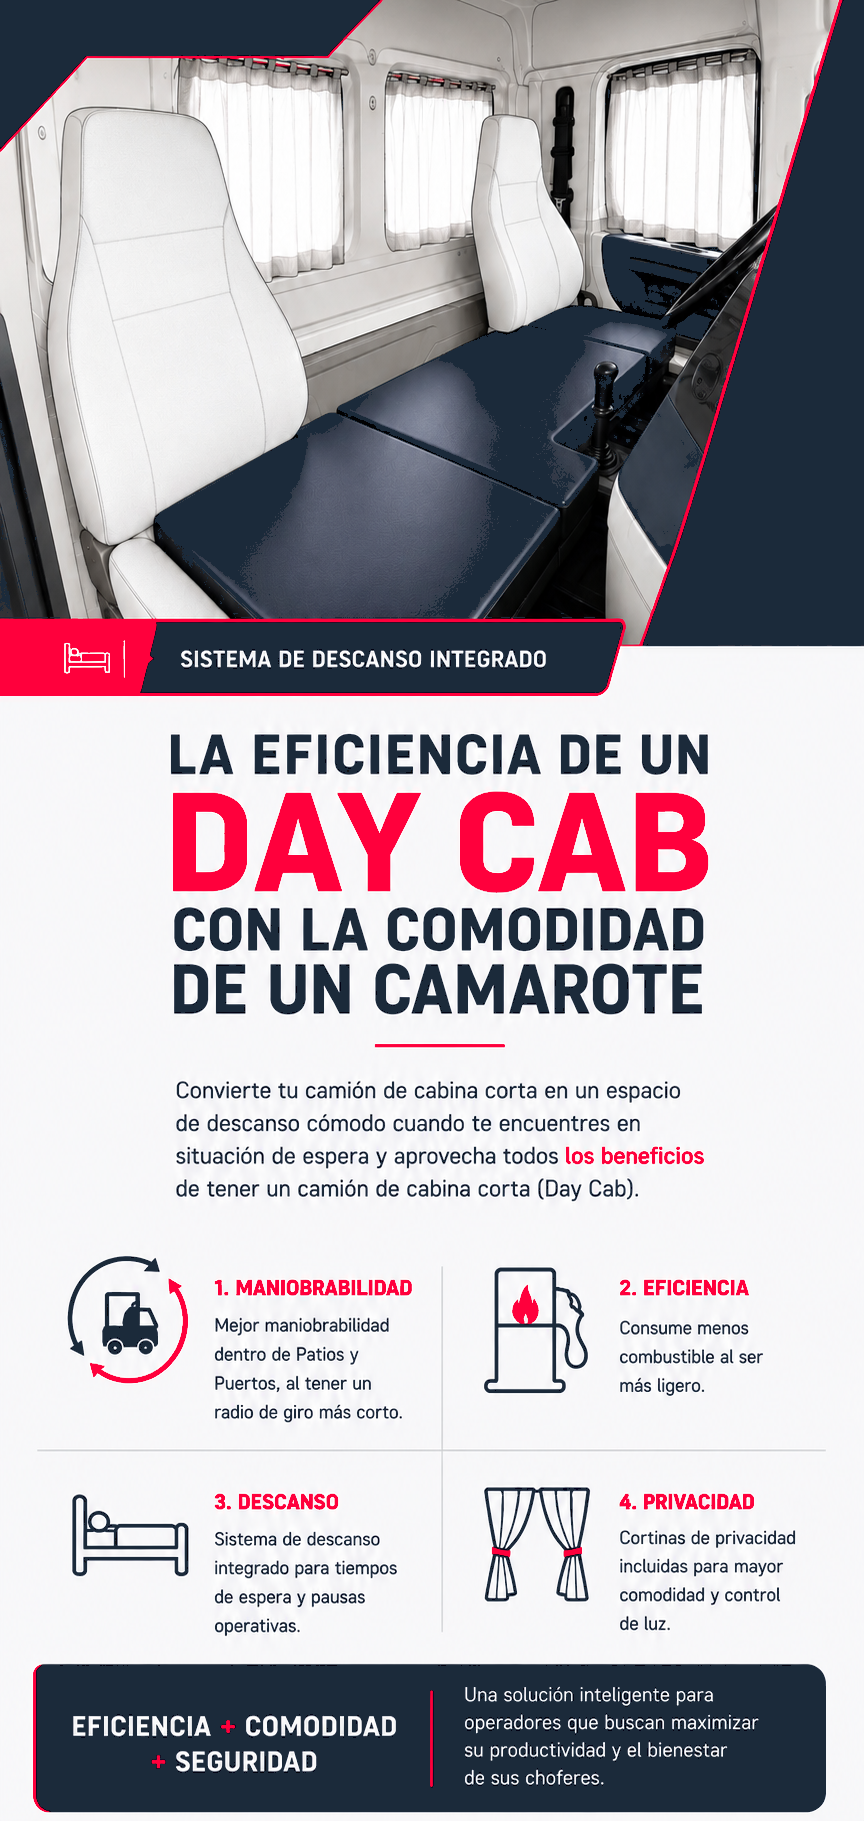
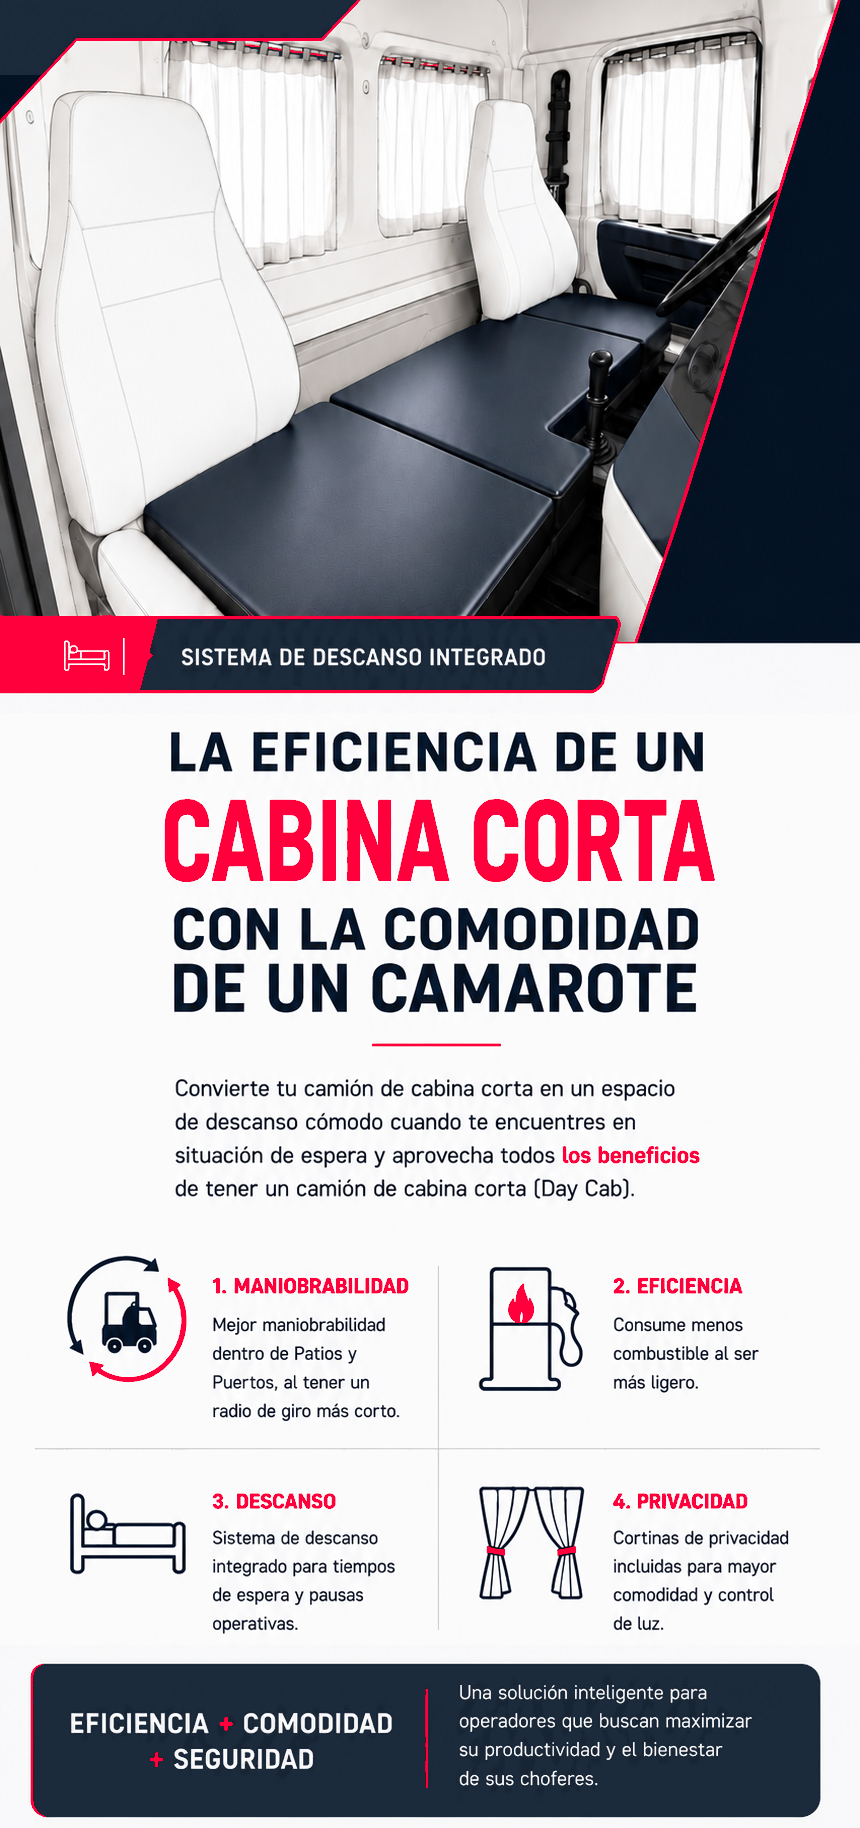
Add files via upload

diff --git a/styles.css b/styles.css
@@ -3313,3 +3313,230 @@ label.has-error .country-trigger {
 .premium-request-form.has-request-path .request-step-label {
   display: none;
 }
+
+/* Cleaner country-code selector: selected state shows flag + area code only */
+.phone-input-group {
+  align-items: start;
+}
+
+.country-combobox {
+  z-index: 30;
+}
+
+.country-combobox:has(.country-menu:not([hidden])) {
+  z-index: 9990;
+}
+
+.country-trigger {
+  grid-template-columns: auto 1fr auto;
+  min-width: 0;
+  padding: 0 12px;
+}
+
+.country-trigger .phone-flag {
+  width: 24px;
+  text-align: center;
+}
+
+.country-code-label {
+  min-width: 0;
+  color: var(--ink);
+  font-size: 0.94rem;
+  font-weight: 950;
+  text-overflow: clip;
+}
+
+.country-menu {
+  z-index: 9999;
+  width: min(100%, 300px);
+  min-width: min(300px, calc(100vw - 48px));
+  max-width: calc(100vw - 48px);
+  background: #fff;
+  box-shadow: 0 22px 54px rgba(14,23,34,0.22);
+  pointer-events: auto;
+}
+
+.country-search {
+  margin-top: 0 !important;
+}
+
+.country-options {
+  max-height: 190px;
+  background: #fff;
+}
+
+.country-option {
+  position: relative;
+  z-index: 1;
+  min-height: 42px;
+  background: #fff;
+}
+
+.country-option strong {
+  color: var(--ink);
+}
+
+.country-option em {
+  color: var(--muted);
+  font-size: 0.82rem;
+}
+
+.country-option:hover strong,
+.country-option:focus-visible strong,
+.country-option:hover em,
+.country-option:focus-visible em {
+  color: var(--red);
+}
+
+@media (max-width: 720px) {
+  .country-menu {
+    width: 100%;
+    min-width: 100%;
+    max-width: 100%;
+  }
+}
+
+/* Keep country dropdown inside form flow so it never covers fields below */
+.phone-field {
+  position: relative;
+}
+
+.phone-field .phone-input-group {
+  align-items: start;
+}
+
+.country-combobox:has(.country-menu:not([hidden])) {
+  grid-column: 1 / -1;
+}
+
+.country-combobox:has(.country-menu:not([hidden])) .country-trigger {
+  max-width: min(280px, 100%);
+}
+
+.country-combobox .country-menu {
+  position: static;
+  width: 100%;
+  min-width: 0;
+  max-width: 100%;
+  margin-top: 10px;
+}
+
+.phone-input-group:has(.country-menu:not([hidden])) {
+  grid-template-columns: minmax(0, 1fr);
+}
+
+
+/* Refined country dropdown panel below the full phone row */
+.phone-input-group:has(.country-menu:not([hidden])) {
+  display: grid;
+  grid-template-columns: minmax(220px, 0.9fr) minmax(0, 1.1fr);
+  gap: 12px 14px;
+}
+
+.phone-input-group:has(.country-menu:not([hidden])) .country-combobox {
+  display: contents;
+}
+
+.phone-input-group:has(.country-menu:not([hidden])) .country-trigger {
+  grid-column: 1;
+  max-width: none;
+}
+
+.phone-input-group:has(.country-menu:not([hidden])) > input[type="tel"] {
+  grid-column: 2;
+  grid-row: 1;
+  margin-top: 0;
+}
+
+.phone-input-group:has(.country-menu:not([hidden])) .country-menu {
+  grid-column: 1 / -1;
+  grid-row: 2;
+  margin-top: 0;
+  padding: 12px;
+  border: 1px solid rgba(23,35,50,0.12);
+  border-radius: 18px;
+  background: #fff;
+  box-shadow: 0 20px 50px rgba(14,23,34,0.14);
+}
+
+.phone-input-group:has(.country-menu:not([hidden])) .country-options {
+  max-height: 220px;
+}
+
+@media (max-width: 720px) {
+  .phone-input-group:has(.country-menu:not([hidden])) {
+    grid-template-columns: 1fr;
+  }
+
+  .phone-input-group:has(.country-menu:not([hidden])) .country-trigger,
+  .phone-input-group:has(.country-menu:not([hidden])) > input[type="tel"],
+  .phone-input-group:has(.country-menu:not([hidden])) .country-menu {
+    grid-column: 1;
+    grid-row: auto;
+  }
+}
+
+/* Refined phone country selector: opens as a clean in-form panel */
+.phone-input-group:has(.country-menu:not([hidden])) {
+  grid-template-columns: minmax(180px, 0.42fr) minmax(220px, 0.58fr);
+  align-items: start;
+  gap: 12px;
+}
+
+.country-combobox:has(.country-menu:not([hidden])) {
+  display: contents;
+}
+
+.country-combobox:has(.country-menu:not([hidden])) .country-trigger {
+  grid-column: 1;
+  grid-row: 1;
+  max-width: none;
+}
+
+.phone-input-group:has(.country-menu:not([hidden])) > input[type="tel"] {
+  grid-column: 2;
+  grid-row: 1;
+  margin-top: 0;
+}
+
+.country-combobox:has(.country-menu:not([hidden])) .country-menu {
+  grid-column: 1 / -1;
+  grid-row: 2;
+  position: static;
+  width: 100%;
+  min-width: 0;
+  max-width: 100%;
+  margin-top: 2px;
+  border-radius: 18px;
+  border: 1px solid rgba(23, 35, 50, 0.12);
+  background: #ffffff;
+  box-shadow: 0 20px 48px rgba(14, 23, 34, 0.16);
+  overflow: hidden;
+}
+
+.country-combobox:has(.country-menu:not([hidden])) .country-options {
+  max-height: 220px;
+  background: #ffffff;
+}
+
+.country-combobox:has(.country-menu:not([hidden])) .country-option {
+  background: #ffffff;
+  opacity: 1;
+}
+
+@media (max-width: 720px) {
+  .phone-input-group:has(.country-menu:not([hidden])) {
+    grid-template-columns: 1fr;
+  }
+
+  .country-combobox:has(.country-menu:not([hidden])) .country-trigger,
+  .phone-input-group:has(.country-menu:not([hidden])) > input[type="tel"],
+  .country-combobox:has(.country-menu:not([hidden])) .country-menu {
+    grid-column: 1;
+    grid-row: auto;
+  }
+}
+
+.text-red {
+  color: var(--red);
+}

diff --git a/script.js b/script.js
@@ -402,7 +402,10 @@ function renderCountryOptions(filter = '') {
     option.className = 'country-option';
     option.setAttribute('role', 'option');
     option.innerHTML = `<span>${country.flag}</span><strong>${country.name}</strong><em>${country.code}</em>`;
-    option.addEventListener('click', () => selectCountry(country));
+    option.addEventListener('pointerdown', (event) => {
+      event.preventDefault();
+      selectCountry(country);
+    });
     countryOptions.appendChild(option);
   });
 }
@@ -424,7 +427,8 @@ function closeCountryMenu() {
 function selectCountry(country) {
   if (countryCodeInput) countryCodeInput.value = country.code;
   if (phoneFlag) phoneFlag.textContent = country.flag;
-  if (countryCodeLabel) countryCodeLabel.textContent = `${country.name} ${country.code}`;
+  if (countryCodeLabel) countryCodeLabel.textContent = country.code;
+  if (countryTrigger) countryTrigger.setAttribute('aria-label', `${country.name} ${country.code}`);
   clearFieldError(countryCodeInput);
   closeCountryMenu();
 }

diff --git a/index.html b/index.html
@@ -76,7 +76,7 @@
   <div class="container">
     <div class="section-heading product-graphic-heading">
       <p class="section-kicker">Exclusivo solo con Panacamión</p>
-      <h2>Todos nuestros Day Cabs incluyen sistema de descanso y privacidad por tiempo limitado.</h2>
+      <h2>Todos nuestros Cabina Corta incluyen sistema de descanso y privacidad. <span class="text-red">¡Solo por tiempo limitado!</span></h2>
     </div>
 <div class="product-graphic-wrap">
   <picture>